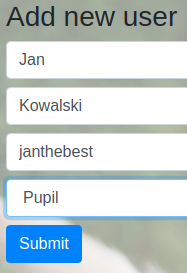
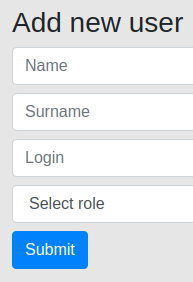
Fixed the background and did a retake of screenshots

diff --git a/src/eRegistryFrontend/src/app/components/help/help.component.css b/src/eRegistryFrontend/src/app/components/help/help.component.css
@@ -4,6 +4,10 @@
   overflow: auto;
 }
 
+.padding {
+  padding: 5px 5px 5px 5px;
+}
+
 .justify {
   text-align: justify;
 }
@@ -17,4 +21,7 @@
   max-width:90%;
   max-height:100%;
   margin: auto;
+  margin-bottom: 10px;
+  margin-top: 10px;
+  border: 3px solid gray;
 }

diff --git a/src/eRegistryFrontend/src/styles.css b/src/eRegistryFrontend/src/styles.css
@@ -7,7 +7,8 @@ body, html {
 
 
 .bg {
-     background-image: url("./assets/szczeniaczki.jpg");
+  /*background-image: url("./assets/szczeniaczki.jpg");*/
+  background-color: silver;
   height: 100%;
   background-position: center;
   background-repeat: no-repeat;
